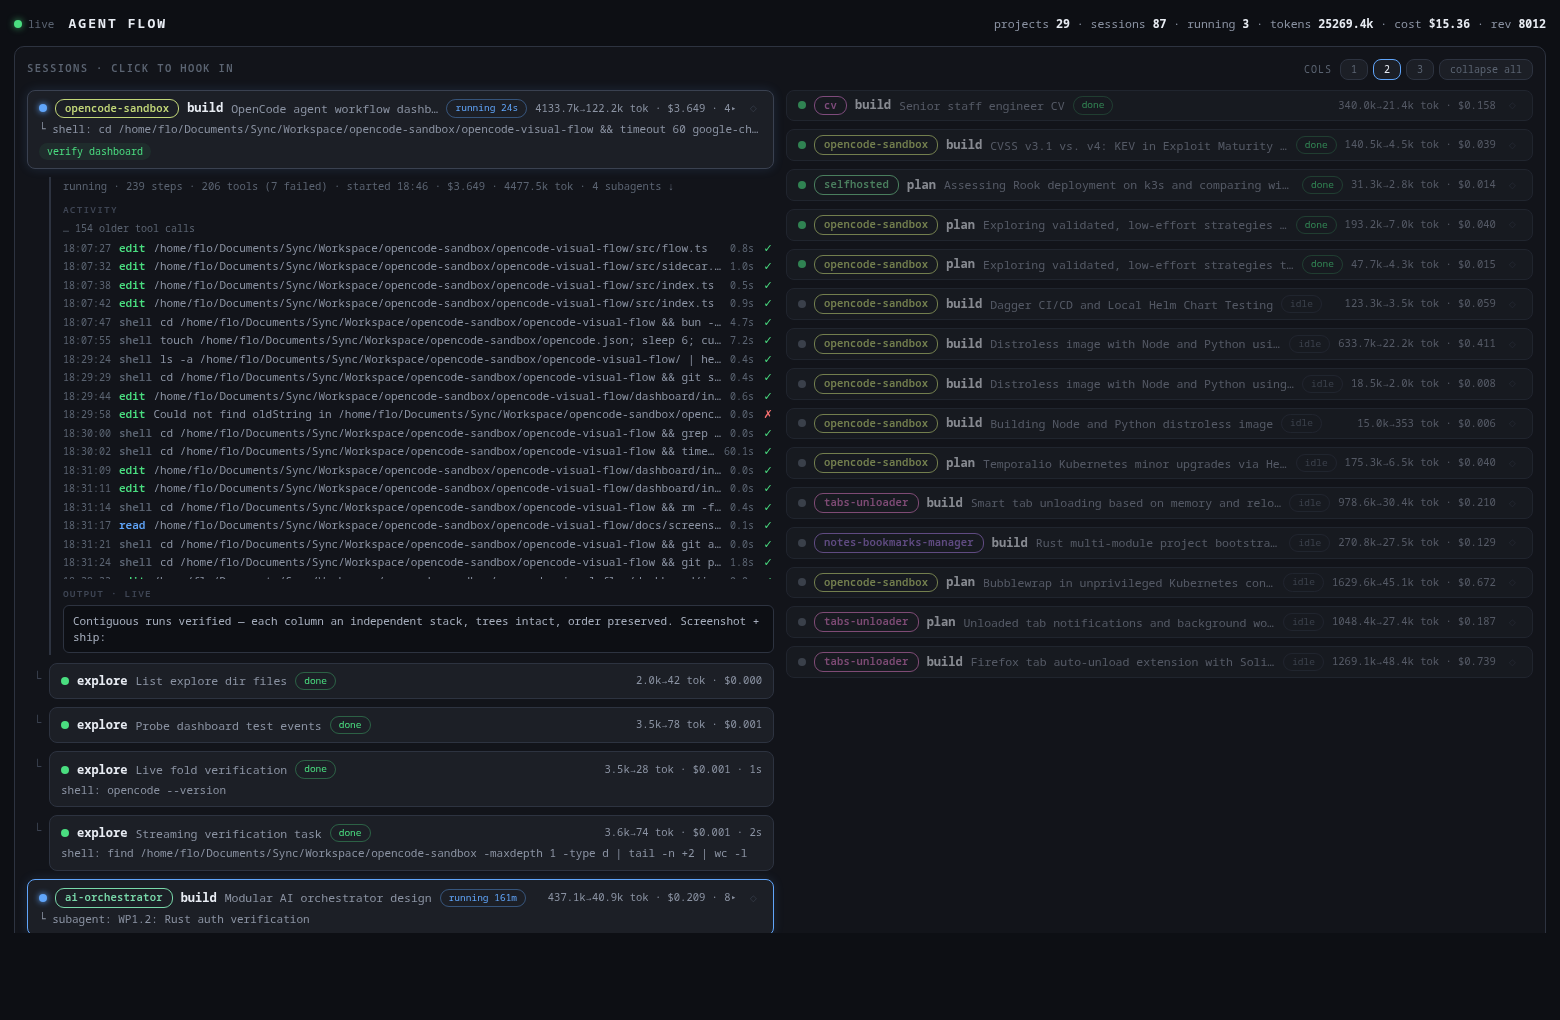
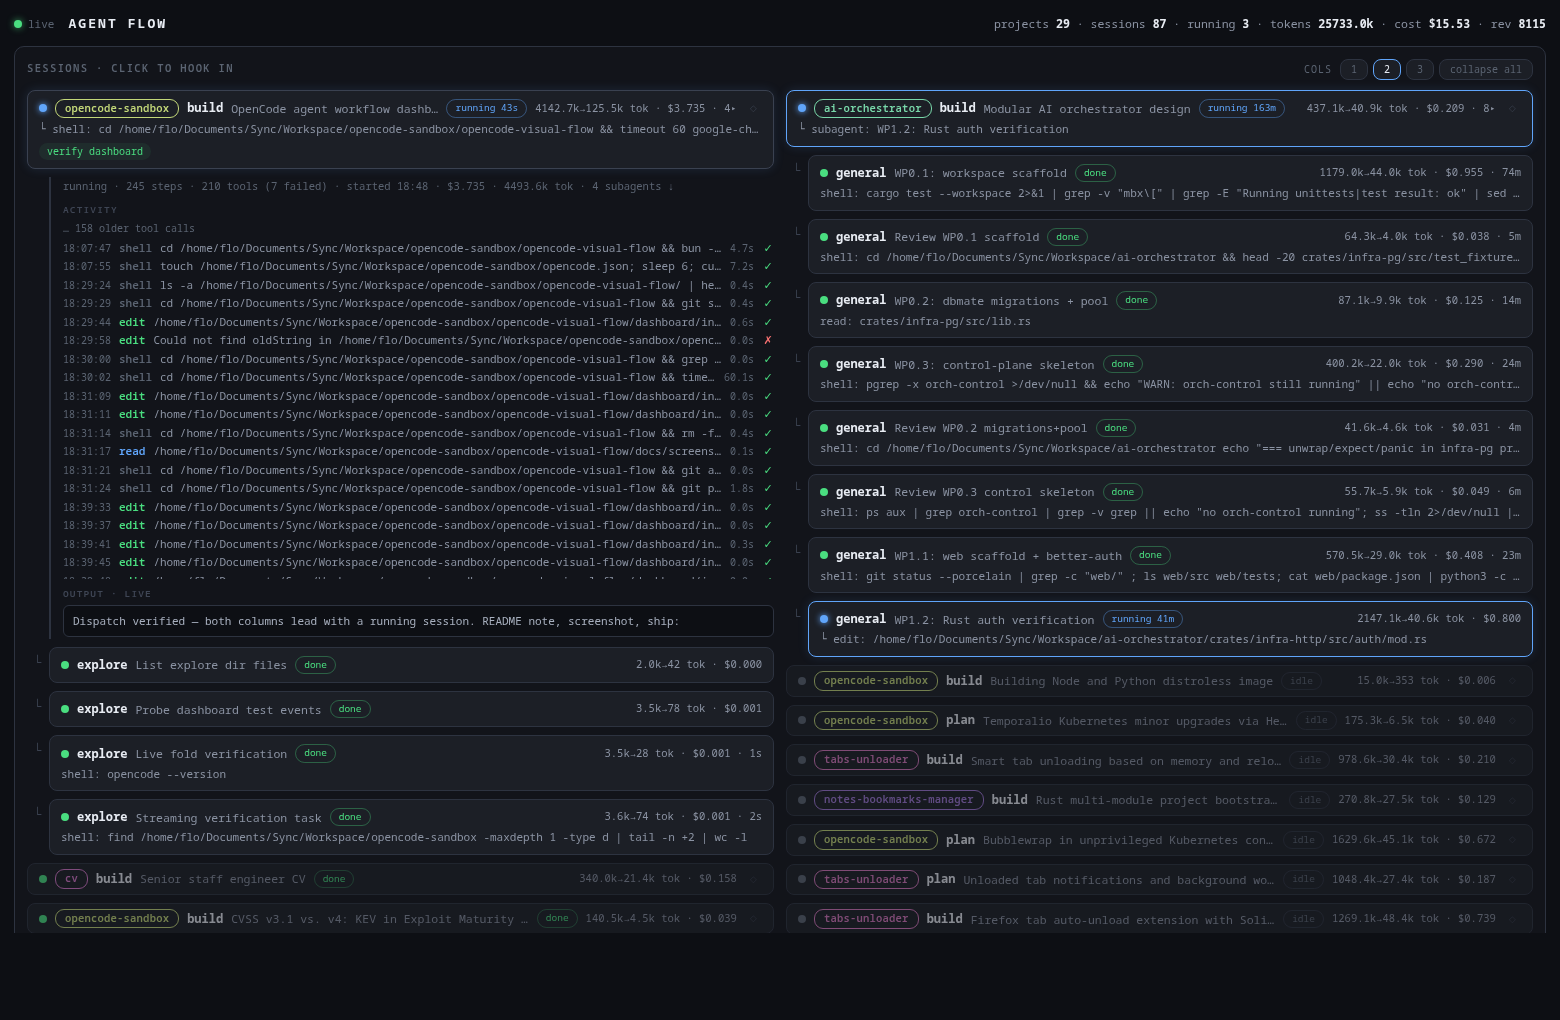
grid: dispatch active sessions round-robin onto column tops
Pinned + running/waiting trees are dealt one-per-column (in global
order) so every column leads with a live session by default; extras
stack beneath in the same column. The remaining list still fills each
column as a contiguous balanced run — independent columns, sessions
never span columns.

diff --git a/dashboard/index.html b/dashboard/index.html
@@ -412,41 +412,58 @@ function renderList() {
     } else hiddenOld++
   }
 
-  // independent columns: contiguous runs of the ordered list — column 1 gets
-  // the first run, column 2 the next, … a session never spans two columns
+  // independent columns. Dispatch phase: pinned + running/waiting trees are
+  // dealt round-robin onto the column tops (global order preserved), so every
+  // column leads with a live session by default. Fill phase: the rest is cut
+  // into contiguous balanced runs, one per column — a session never spans two.
   let colCount = gridCols
   if (window.innerWidth < 1150) colCount = 1
   colCount = Math.max(1, Math.min(colCount, chunks.length))
-  const total = chunks.reduce((s, c) => s + c.weight, 0)
-  const target = total / colCount
-  const bounds = [0]
-  let acc = 0
-  for (let i = 0; i < chunks.length && bounds.length < colCount; i++) {
-    acc += chunks[i].weight
-    // cut here only if enough chunks remain for the still-unopened runs
-    if (acc >= target && chunks.length - (i + 1) >= colCount - bounds.length) {
-      bounds.push(i + 1)
-      acc = 0
+
+  const isSpecial = ch => {
+    const root = ch.units[0]?.n
+    return !!root && (pinSet.has(root.id) || treeBusy(root))
+  }
+  let si = 0
+  while (si < chunks.length && isSpecial(chunks[si])) si++
+  const specials = chunks.slice(0, si)
+  const rest = chunks.slice(si)
+
+  const cols = Array.from({ length: colCount }, () => ({ units: [] }))
+  specials.forEach((ch, j) => cols[j % colCount].units.push(...ch.units))
+
+  if (rest.length) {
+    const runs = Math.min(colCount, rest.length)
+    const total = rest.reduce((s, c) => s + c.weight, 0)
+    const target = total / runs
+    const bounds = [0]
+    let acc = 0
+    for (let i = 0; i < rest.length && bounds.length < runs; i++) {
+      acc += rest[i].weight
+      if (acc >= target && rest.length - (i + 1) >= runs - bounds.length) {
+        bounds.push(i + 1)
+        acc = 0
+      }
+    }
+    bounds.push(rest.length)
+    for (let r = 0; r < bounds.length - 1; r++) {
+      const runChunks = rest.slice(bounds[r], bounds[r + 1])
+      if (runChunks.length) cols[r].units.push(...runChunks.flatMap(c => c.units))
     }
   }
-  bounds.push(chunks.length)
-  const cols = []
-  for (let r = 0; r < bounds.length - 1; r++) {
-    const units = chunks.slice(bounds[r], bounds[r + 1]).flatMap(c => c.units)
-    if (units.length) cols.push(units)
-  }
+  const visible = cols.filter(c => c.units.length)
 
   const scrollState = captureScroll()
   pb.innerHTML = projectFilter
     ? `<div class="pbar">project <b>${esc(basename(projectFilter))}</b>` +
       `<button class="mini" data-clearproj="1">✕ all projects</button></div>`
     : ""
-  if (cols.length <= 1) {
+  if (visible.length <= 1) {
     el.className = ""
-    el.innerHTML = (cols[0]?.units ?? []).map(u => rowHTML(u.n, u.depth, u.compact, kids)).join("")
+    el.innerHTML = (visible[0]?.units ?? []).map(u => rowHTML(u.n, u.depth, u.compact, kids)).join("")
   } else {
     el.className = "grid"
-    el.innerHTML = cols.map(c => `<div class="col">${c.map(u => rowHTML(u.n, u.depth, u.compact, kids)).join("")}</div>`).join("")
+    el.innerHTML = visible.map(c => `<div class="col">${c.units.map(u => rowHTML(u.n, u.depth, u.compact, kids)).join("")}</div>`).join("")
   }
   mb.innerHTML = hiddenOld > 0 ? `<div class="more" data-more="1">show ${hiddenOld} older sessions</div>` : ""
   restoreScroll(scrollState)

diff --git a/README.md b/README.md
@@ -11,7 +11,7 @@ One OpenCode plugin, zero build step. The plugin runs inside the OpenCode server
 
 ## What it shows
 
-- **Sessions grid** — one configurable grid (1/2/3 columns, persisted): running/waiting sessions first (never truncated), then recently active, then older sessions as compact dimmed cards. Subagents render indented under their parent with the spawn (`└`) marker.
+- **Sessions grid** — one configurable grid (1/2/3 columns, persisted). Active sessions are **dispatched round-robin onto the column tops** (so every column leads with a live session when there are enough), then the remaining list fills each column as a contiguous run: running/waiting first (never truncated), then recently active, then older sessions as compact dimmed cards. Subagents render indented under their parent with the spawn (`└`) marker; a session never spans two columns.
 - **Pinning** — every root card has a pin toggle (`◇`/`◆`): pinned sessions float to the top of the grid in pin order with an accent border, survive reloads, and render full-depth even when stale.
 - **Per-card glance** — status dot + chip, colored project badge (click to filter), agent, title, tokens and cost, duration, current action (the tool running right now), `flow_task` chips, reviewer/critic `⌘ VERDICT` and `⚑` lines, errors.
 - **Hook in** — click a session to expand a live feed in place:
